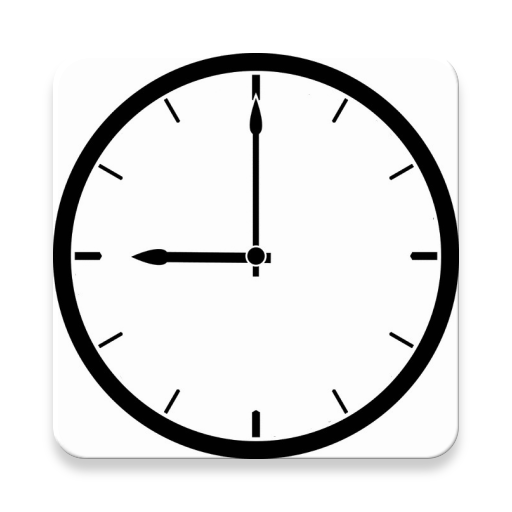
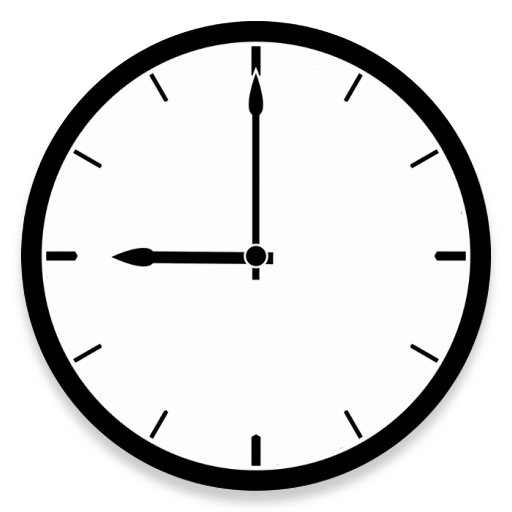
Bug fixes

Changed region(s): [[0.0312, 0.0312, 0.9688, 1.0]]

diff --git a/app/src/main/java/com/rmh/powernap/powernapalarm/CustomAlarmFragment.java b/app/src/main/java/com/rmh/powernap/powernapalarm/CustomAlarmFragment.java
@@ -3,9 +3,12 @@ package com.rmh.powernap.powernapalarm;
 import android.os.Bundle;
 import android.support.v4.app.Fragment;
 import android.text.InputType;
+import android.util.Log;
+import android.view.Gravity;
 import android.view.LayoutInflater;
 import android.view.View;
 import android.view.ViewGroup;
+import android.widget.TextView;
 import android.widget.Toast;
 
 import com.afollestad.materialdialogs.MaterialDialog;
@@ -19,22 +22,35 @@ public class CustomAlarmFragment extends Fragment {
 	private View parentView;
 	private ResideMenu resideMenu;
 	private String title;
+	private int hour;
+	private int minute;
 	private MaterialListView listView;
 
 	@Override
 	public View onCreateView(LayoutInflater inflater, ViewGroup container, Bundle savedInstanceState){
+
 		parentView = inflater.inflate(R.layout.fragment_custom_alarm, container, false);
 		setUpViews();
-		setUpLayout();
+
 		return parentView;
+
+	}
+
+	@Override
+	public void onSaveInstanceState(Bundle savedState){
+		super.onSaveInstanceState(savedState);
+
+	}
+
+	@Override
+	public void onViewStateRestored(Bundle savedState){
+		super.onViewStateRestored(savedState);
+
 	}
 
 	private void setUpViews(){
 		MainActivity parentActivity = (MainActivity) getActivity();
 		resideMenu = parentActivity.getResideMenu();
-	}
-
-	private void setUpLayout(){
 
 		// Initialize the list view
 		listView = (MaterialListView) parentView.findViewById(R.id.custom_alarm_list);
@@ -45,9 +61,19 @@ public class CustomAlarmFragment extends Fragment {
 
 			@Override
 			public void onClick(View v) {
-				alertDialogBox();
+
+				alertDialogBoxHour();
 			}
 		});
+
+	}
+
+	private void setUpLayout(){
+
+		BasicButtonsCard newCard = createCards(hour + " hours");
+
+			// Add the card to the ListView so it will be displayed on the screen
+			listView.add(newCard);
 
 	}
 
@@ -59,28 +85,54 @@ public class CustomAlarmFragment extends Fragment {
 		card.setTitle(heading);
 		card.setLeftButtonText("Set Alarm");
 		card.setRightButtonText("Cancel Alarm");
-		card.setDescription("I am a card!");
+		card.setDescription(hour + " hours and " + minute + " minutes.");
 
 		return card;
 
 	}
 
-	private void alertDialogBox(){
+	private void alertDialogBoxHour(){
 
-		MaterialDialog dialog =
 		new MaterialDialog.Builder(this.getActivity())
-				.title("New Alarm")
-				.content("How long do you want to set your alarm for?")
+				.title(R.string.dialog_title)
+				.content(R.string.dialog_content)
+				.positiveText("Next")
+				.negativeText(R.string.dialog_negative)
 				.inputType(InputType.TYPE_CLASS_NUMBER)
-				.input("Hours", null, true, new MaterialDialog.InputCallback() {
+				.input("Hours", null, false, new MaterialDialog.InputCallback() {
 
 					@Override
 					public void onInput(MaterialDialog materialDialog, CharSequence charSequence) {
 
+						hour = Integer.parseInt(charSequence.toString());
+						Log.d("CHAR_SEQUENCE_HOUR", charSequence.toString());
+
+						alertDialogBoxMinute();
 					}
 				}).show();
 
 	}
 
+	private void alertDialogBoxMinute(){
+
+		new MaterialDialog.Builder(this.getActivity())
+				.title(R.string.dialog_title)
+				.content(R.string.dialog_content)
+				.positiveText(R.string.dialog_positive)
+				.negativeText(R.string.dialog_negative)
+				.inputType(InputType.TYPE_CLASS_NUMBER)
+				.input("Minutes", null, false, new MaterialDialog.InputCallback() {
+
+					@Override
+					public void onInput(MaterialDialog materialDialog, CharSequence charSequence) {
+
+						minute = Integer.parseInt(charSequence.toString());
+						Log.d("CHAR_SEQUENCE_MINUTE", charSequence.toString());
+
+						setUpLayout();
+					}
+				}).show();
+
+	}
 
 }

diff --git a/app/src/main/java/com/rmh/powernap/powernapalarm/StandardAlarmFragment.java b/app/src/main/java/com/rmh/powernap/powernapalarm/StandardAlarmFragment.java
@@ -29,32 +29,32 @@ public class StandardAlarmFragment extends Fragment {
 			App.getContext().getString(R.string.ten_minute_image_text),
 			App.getContext().getString(R.string.ten_minute_title),
 			App.getContext().getString(R.string.ten_minute_subtitle),
-			R.drawable.ic_clock_face_45);
+			R.mipmap.ic_clock_face_45);
 	public StandardAlarm theShort = new StandardAlarm(
 			App.getContext().getString(R.string.fifteen_minute_image_text),
 			App.getContext().getString(R.string.fifteen_minute_title),
 			App.getContext().getString(R.string.fifteen_minute_subtitle),
-			R.drawable.ic_clock_face_45);
+			R.mipmap.ic_clock_face_15);
 	public StandardAlarm theOriginal = new StandardAlarm(
 			App.getContext().getString(R.string.twenty_minute_image_text),
 			App.getContext().getString(R.string.twenty_minute_title),
 			App.getContext().getString(R.string.twenty_minute_subtitle),
-			R.drawable.ic_clock_face_45);
+			R.mipmap.ic_clock_face_45);
 	public StandardAlarm theHalfHour = new StandardAlarm(
 			App.getContext().getString(R.string.thirty_minute_image_text),
 			App.getContext().getString(R.string.thirty_minute_title),
 			App.getContext().getString(R.string.thirty_minute_subtitle),
-			R.drawable.ic_clock_face_45);
+			R.mipmap.ic_clock_face_30);
 	public StandardAlarm theThreeQuarters = new StandardAlarm(
 			App.getContext().getString(R.string.forty_five_minute_image_text),
 			App.getContext().getString(R.string.forty_five_minute_title),
 			App.getContext().getString(R.string.forty_five_minute_subtitle),
-			R.drawable.ic_clock_face_45);
+			R.mipmap.ic_clock_face_45);
 	public StandardAlarm thePowerHour = new StandardAlarm(
 			App.getContext().getString(R.string.sixty_minute_image_text),
 			App.getContext().getString(R.string.sixty_minute_title),
 			App.getContext().getString(R.string.sixty_minute_subtitle),
-			R.drawable.ic_clock_face_45);
+			R.mipmap.ic_clock_face_45);
 	public StandardAlarm[] standardAlarms = {theQuickie, theShort, theOriginal, theHalfHour,
 											theThreeQuarters, thePowerHour};
 
@@ -90,8 +90,8 @@ public class StandardAlarmFragment extends Fragment {
 		card.setTitle(standardAlarms[i].imageText);
 		card.setDescription(standardAlarms[i].subTitle);
 		card.setDrawable(standardAlarms[i].image);
-		card.setLeftButtonText("Set Alarm");
-		card.setRightButtonText("Cancel Alarm");
+		card.setLeftButtonText(R.string.card_button_set);
+		card.setRightButtonText(R.string.card_button_cancel);
 		card.setDividerVisible(true);
 
 		card.setOnLeftButtonPressedListener(new OnButtonPressListener() {

diff --git a/app/src/main/java/com/rmh/powernap/powernapalarm/DataStorage.java b/app/src/main/java/com/rmh/powernap/powernapalarm/DataStorage.java
@@ -1,0 +1,60 @@
+package com.rmh.powernap.powernapalarm;
+
+
+import com.dexafree.materialList.model.Card;
+
+import java.util.ArrayList;
+
+public class DataStorage {
+
+	private ArrayList<Card> arrayList = new ArrayList<>();
+	public int length = arrayList.size();
+
+	public DataStorage(){
+
+	}
+
+	/**
+	 * Add a Card object to the arrayList.
+	 */
+	public void add(Card card){
+		arrayList.add(card);
+	}
+
+	/**
+	 * Deletes the Card that is at index position.
+	 */
+	public void delete(int position){
+		if(position <= length) {
+			arrayList.remove(position);
+		}
+	}
+
+	/**
+	 * Returns the entire arrayList.
+	 */
+	public ArrayList<Card> getCards(){
+		return arrayList;
+	}
+
+	/**
+	 * Returns the Card at index position.
+	 *
+	 * If the position given is out of bounds of the arrayList, it returns null.
+	 */
+	public Card getCard(int position){
+		if(position < length) {
+			return arrayList.get(position);
+		}
+		return null;
+	}
+
+	/**
+	 * If the arrayList has been initialized with cards, this will return true. If the arrayList
+	 * is null, this will return false.
+	 */
+	public boolean hasCards(){
+		return length > 0;
+	}
+
+}

diff --git a/app/src/main/java/com/rmh/powernap/powernapalarm/MainActivity.java b/app/src/main/java/com/rmh/powernap/powernapalarm/MainActivity.java
@@ -43,8 +43,8 @@ public class MainActivity extends FragmentActivity implements View.OnClickListen
 		resideMenu.setMenuListener(menuListener);
 		resideMenu.setScaleValue(0.6f);
 
-		itemStandardAlarm = new ResideMenuItem(this, R.drawable.ic_clock_face_45, "Standard Alarms");
-		itemCustomAlarm = new ResideMenuItem(this, R.drawable.ic_clock_face_45, "Custom Alarms");
+		itemStandardAlarm = new ResideMenuItem(this, R.mipmap.ic_clock_face_15, "Standard Alarms");
+		itemCustomAlarm = new ResideMenuItem(this, R.mipmap.ic_clock_face_45, "Custom Alarms");
 		itemSettings = new ResideMenuItem(this, R.drawable.ic_settings, "Settings");
 
 		itemStandardAlarm.setOnClickListener(this);
